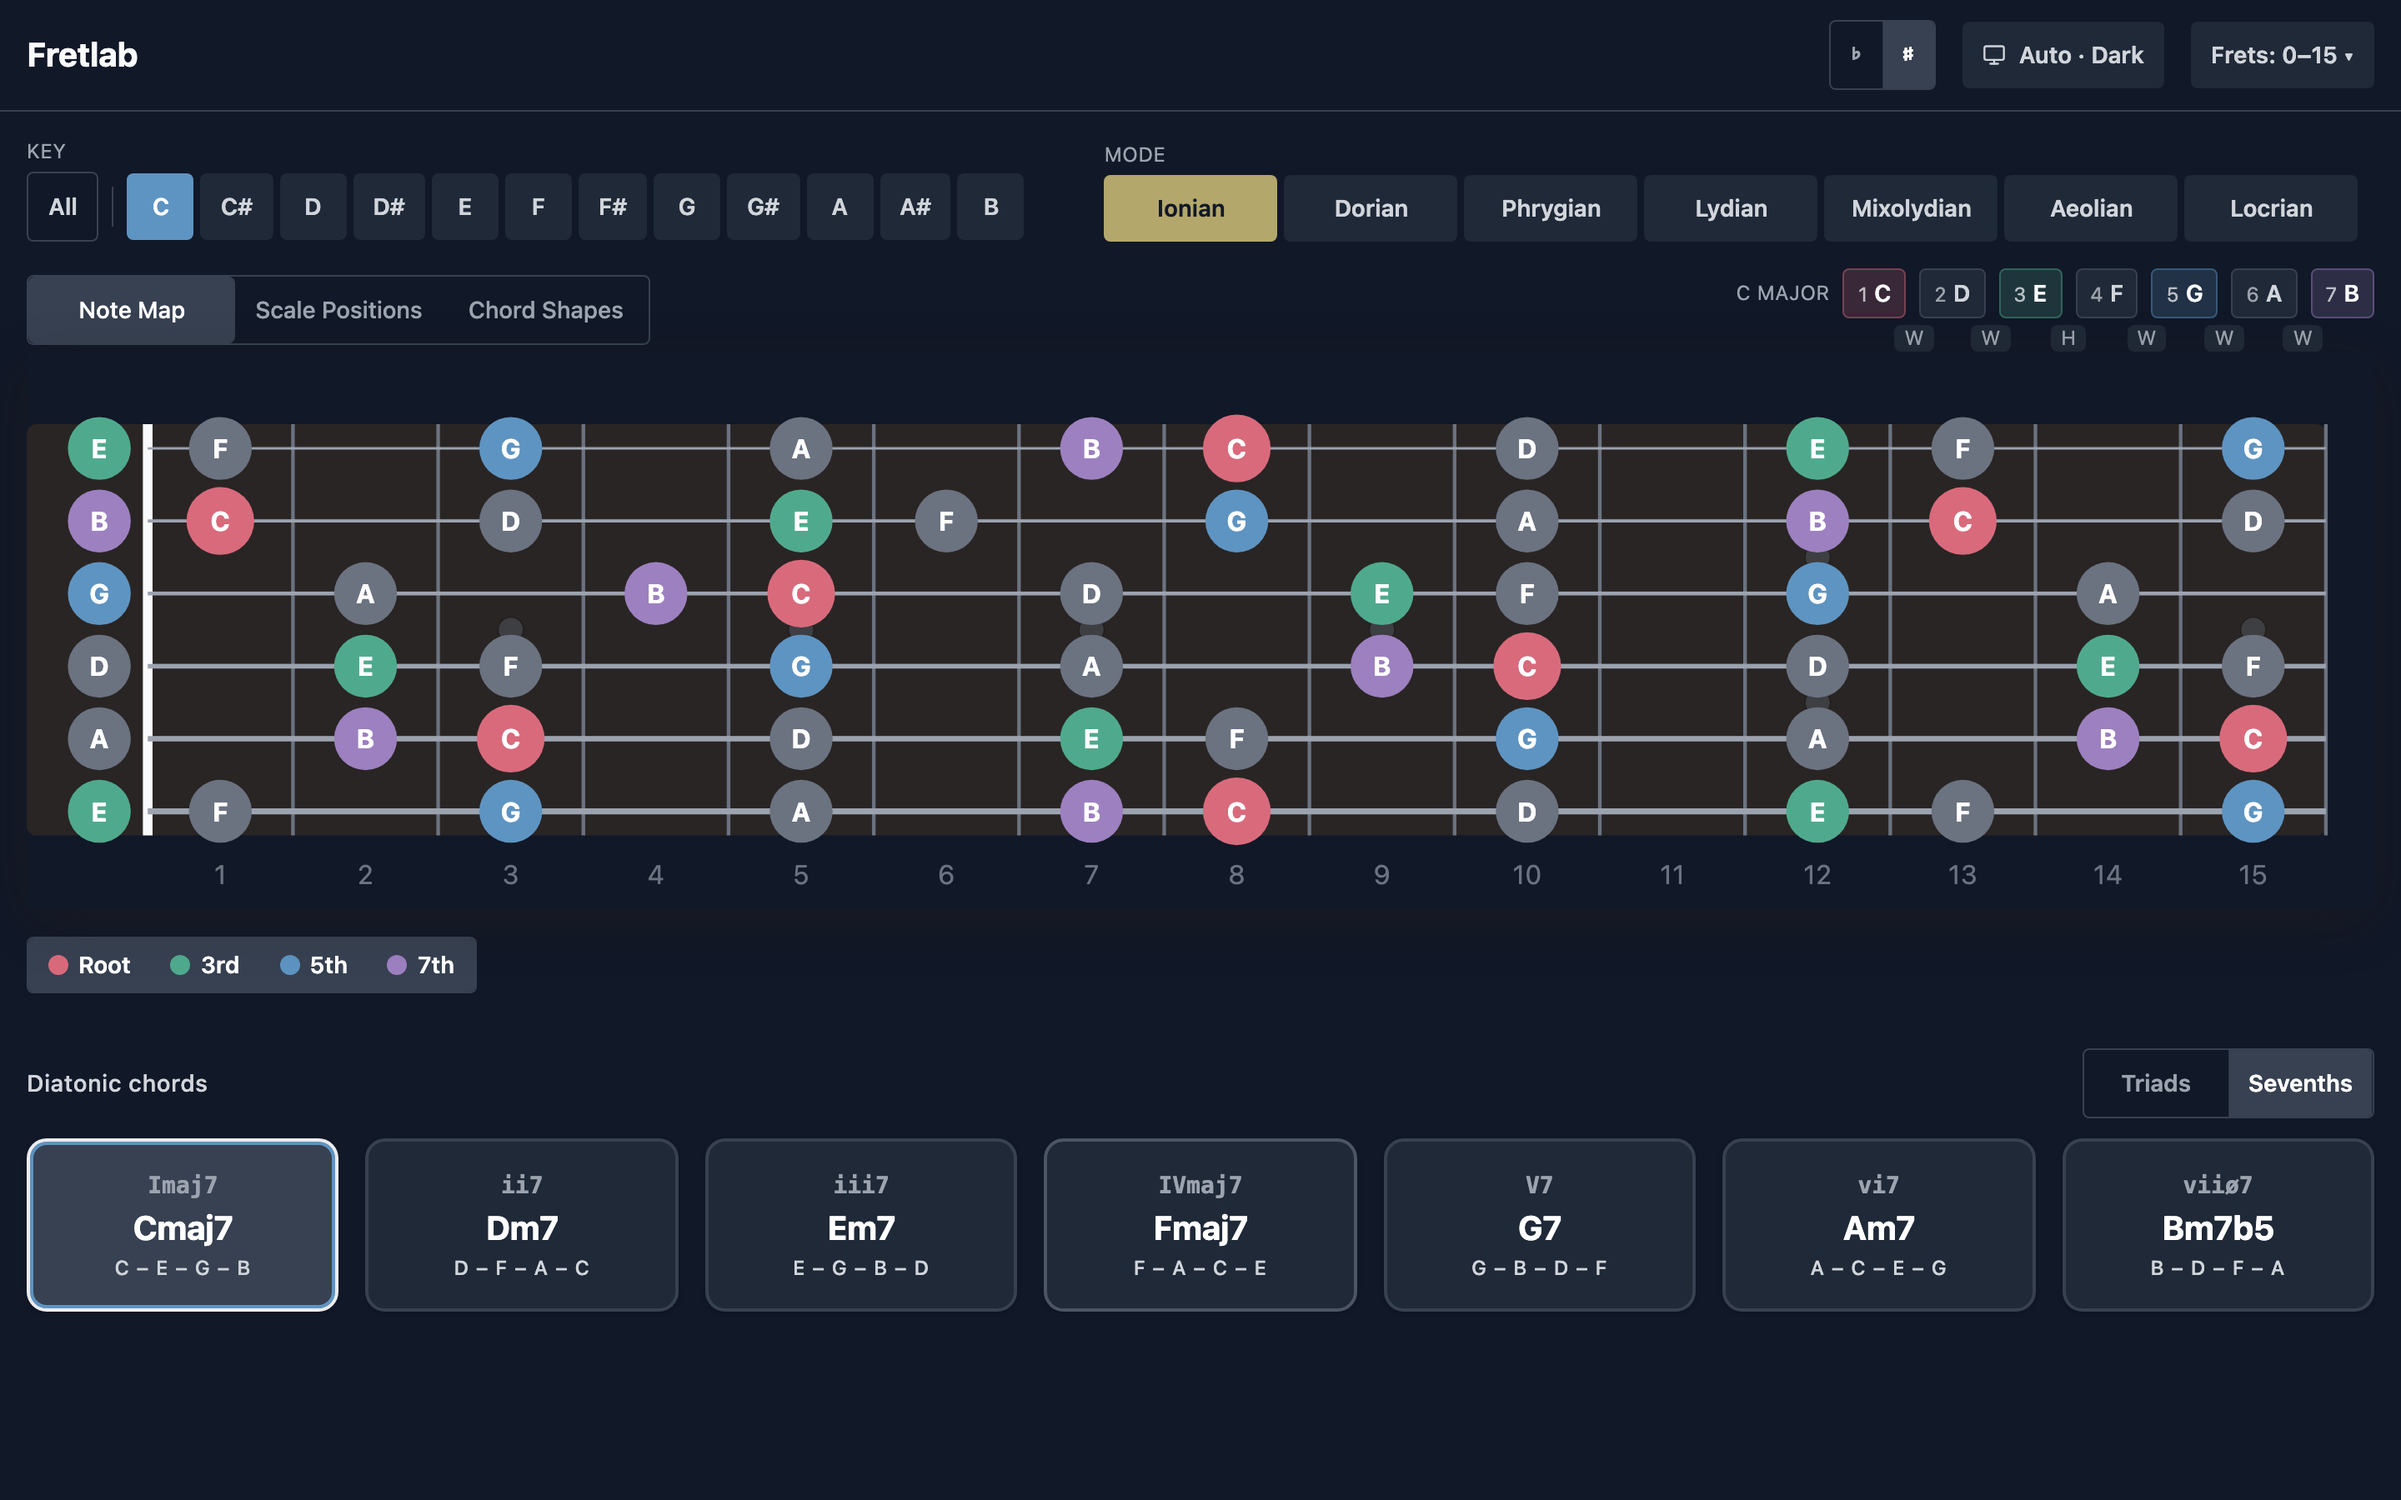
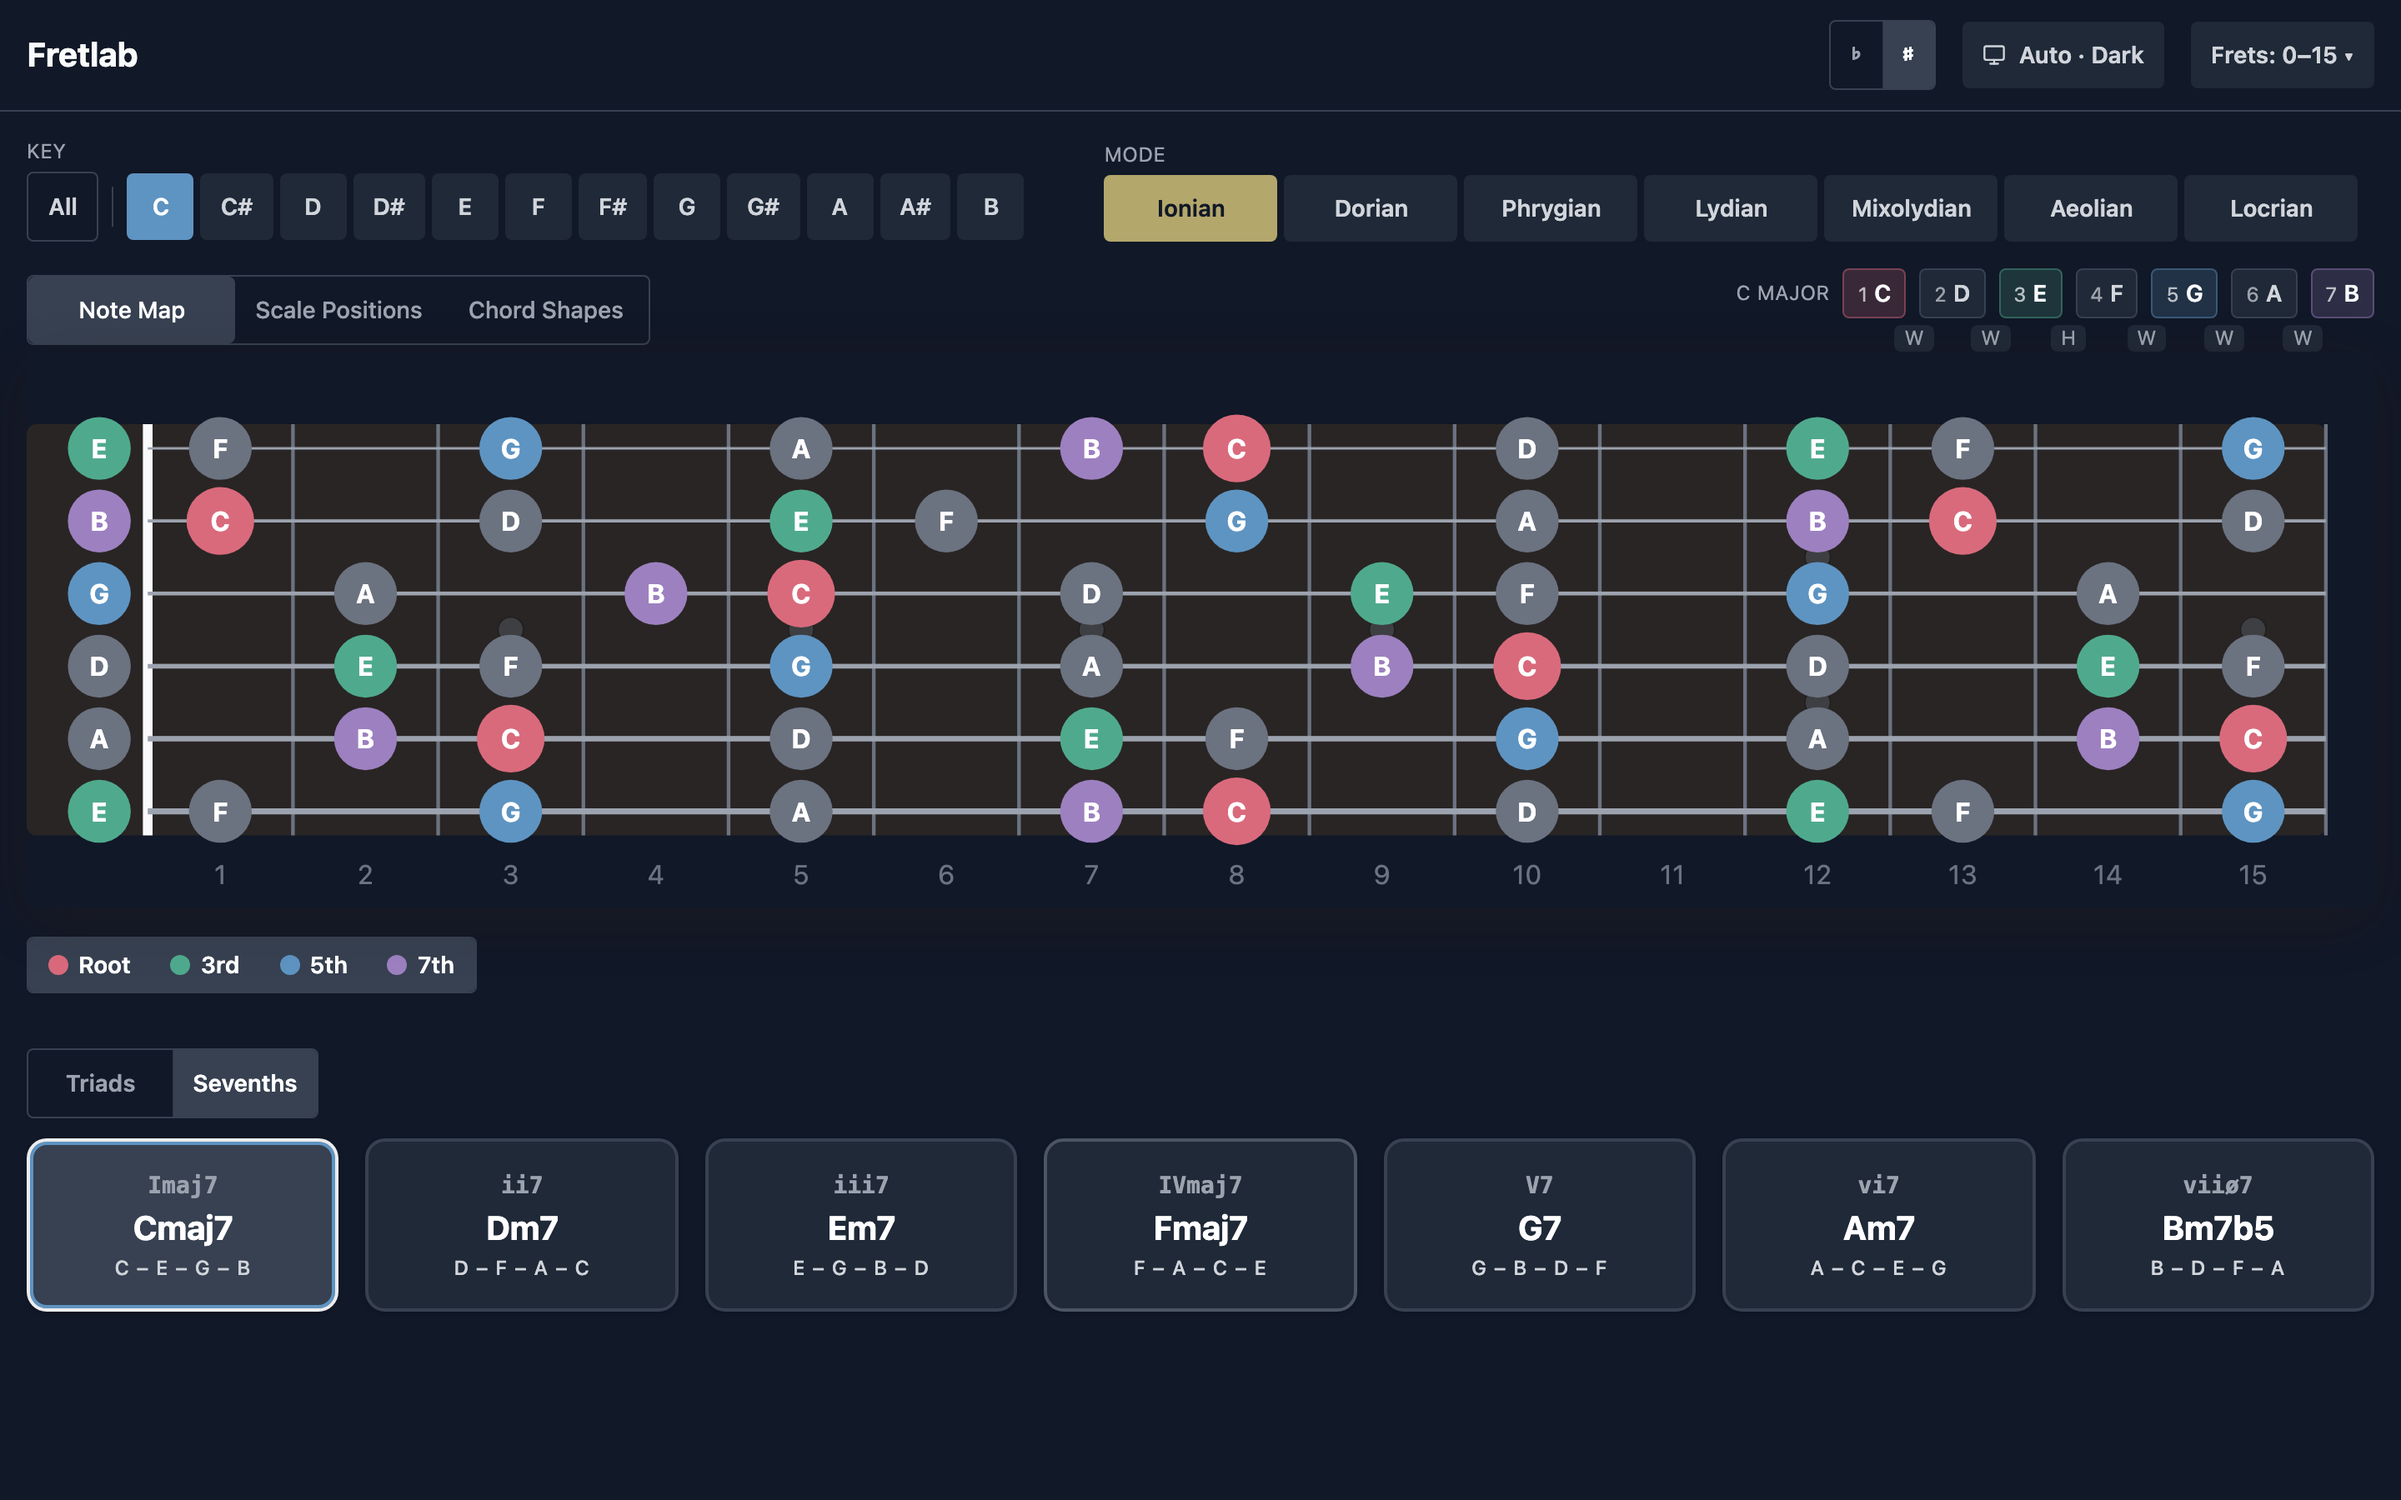
fix(layout): keep fretboard mounted on All key; drop chord-row heading
Scale Positions and Chord Shapes used to early-return a centered "Select
a key…" message when ALL_NOTES_KEY was active, which unmounted the
fretboard and collapsed the page height. Move the empty-state into
Fretboard's emptyMessage prop instead — the fretboard stays at a constant
y across every key state, including All.

Drop the "Diatonic chords" heading above the chord row. The toggle
becomes a left-aligned [Triads | Sevenths] pill on its own; the chord
cards' Roman numerals already signal "diatonic," making the heading
redundant.

Re-record all 5 README assets against the new layout.

Changed region(s): [[0.0, 0.6844, 0.1562, 0.7467], [0.875, 0.6844, 1.0, 0.7467]]

diff --git a/src/views/ScalePositionsView.tsx b/src/views/ScalePositionsView.tsx
@@ -114,9 +114,16 @@ export function ScalePositionsView({
     ],
   );
 
-  if (selectedKey === ALL_NOTES_KEY) {
-    return <div className="text-fg-faint text-center py-20">{EMPTY_KEY_MESSAGE}</div>;
-  }
+  // No early return for ALL_NOTES_KEY — keep the fretboard mounted so the
+  // page layout (and the fretboard's vertical position) doesn't shift when
+  // the user toggles between a real key and All. The empty-state message
+  // surfaces inside the Fretboard via the emptyMessage prop instead.
+  const fretboardEmptyMessage =
+    selectedKey === ALL_NOTES_KEY
+      ? EMPTY_KEY_MESSAGE
+      : selectedPositions.size === 0
+        ? "Toggle a position to begin."
+        : undefined;
 
   return (
     <div className="space-y-4">
@@ -126,9 +133,7 @@ export function ScalePositionsView({
         endFret={endFret}
         positionWindows={positionWindows}
         overlapZones={overlapZones}
-        emptyMessage={
-          selectedPositions.size === 0 ? "Toggle a position to begin." : undefined
-        }
+        emptyMessage={fretboardEmptyMessage}
       />
       <div className="flex flex-wrap items-center gap-x-6 gap-y-3 min-h-9 max-[1319px]:min-h-20">
         <Legend enabledRoles={enabledHighlights} onToggleRole={onToggleRole} />

diff --git a/src/views/ChordShapesView.tsx b/src/views/ChordShapesView.tsx
@@ -183,25 +183,23 @@ export function ChordShapesView({
     [markers, enabledHighlights],
   );
 
-  if (selectedKey === ALL_NOTES_KEY) {
-    return (
-      <div className="text-fg-faint text-center py-20">
-        Select a key to view chord shapes.
-      </div>
-    );
-  }
-
+  // No early return for ALL_NOTES_KEY — keep the fretboard mounted so the
+  // page layout doesn't shift when the user toggles between a real key and
+  // All. The empty-state surfaces via emptyMessage instead.
   const activeSubSelectorEmpty = selectedChord
     ? mode === "triads"
       ? selectedStringSets.size === 0 || selectedInversions.size === 0
       : activeSeventhStringSets.length === 0 || selectedSeventhInversions.size === 0
     : false;
 
-  const fretboardMessage = !selectedChord
-    ? "Select a chord to view shapes."
-    : activeSubSelectorEmpty
-      ? "Select a string set to begin."
-      : undefined;
+  const fretboardMessage =
+    selectedKey === ALL_NOTES_KEY
+      ? "Select a key to view chord shapes."
+      : !selectedChord
+        ? "Select a chord to view shapes."
+        : activeSubSelectorEmpty
+          ? "Select a string set to begin."
+          : undefined;
 
   return (
     <div className="space-y-4">

diff --git a/src/components/DiatonicChords.tsx b/src/components/DiatonicChords.tsx
@@ -69,10 +69,7 @@ export function DiatonicChords({
 
   return (
     <section className="mt-8">
-      <div className="flex items-center justify-between mb-3 gap-4">
-        <h2 className="text-sm text-fg-secondary tracking-wide font-medium">
-          Diatonic chords
-        </h2>
+      <div className="flex items-center justify-start mb-3">
         <div
           className="relative inline-grid grid-cols-2 rounded overflow-hidden border border-line"
           role="radiogroup"
